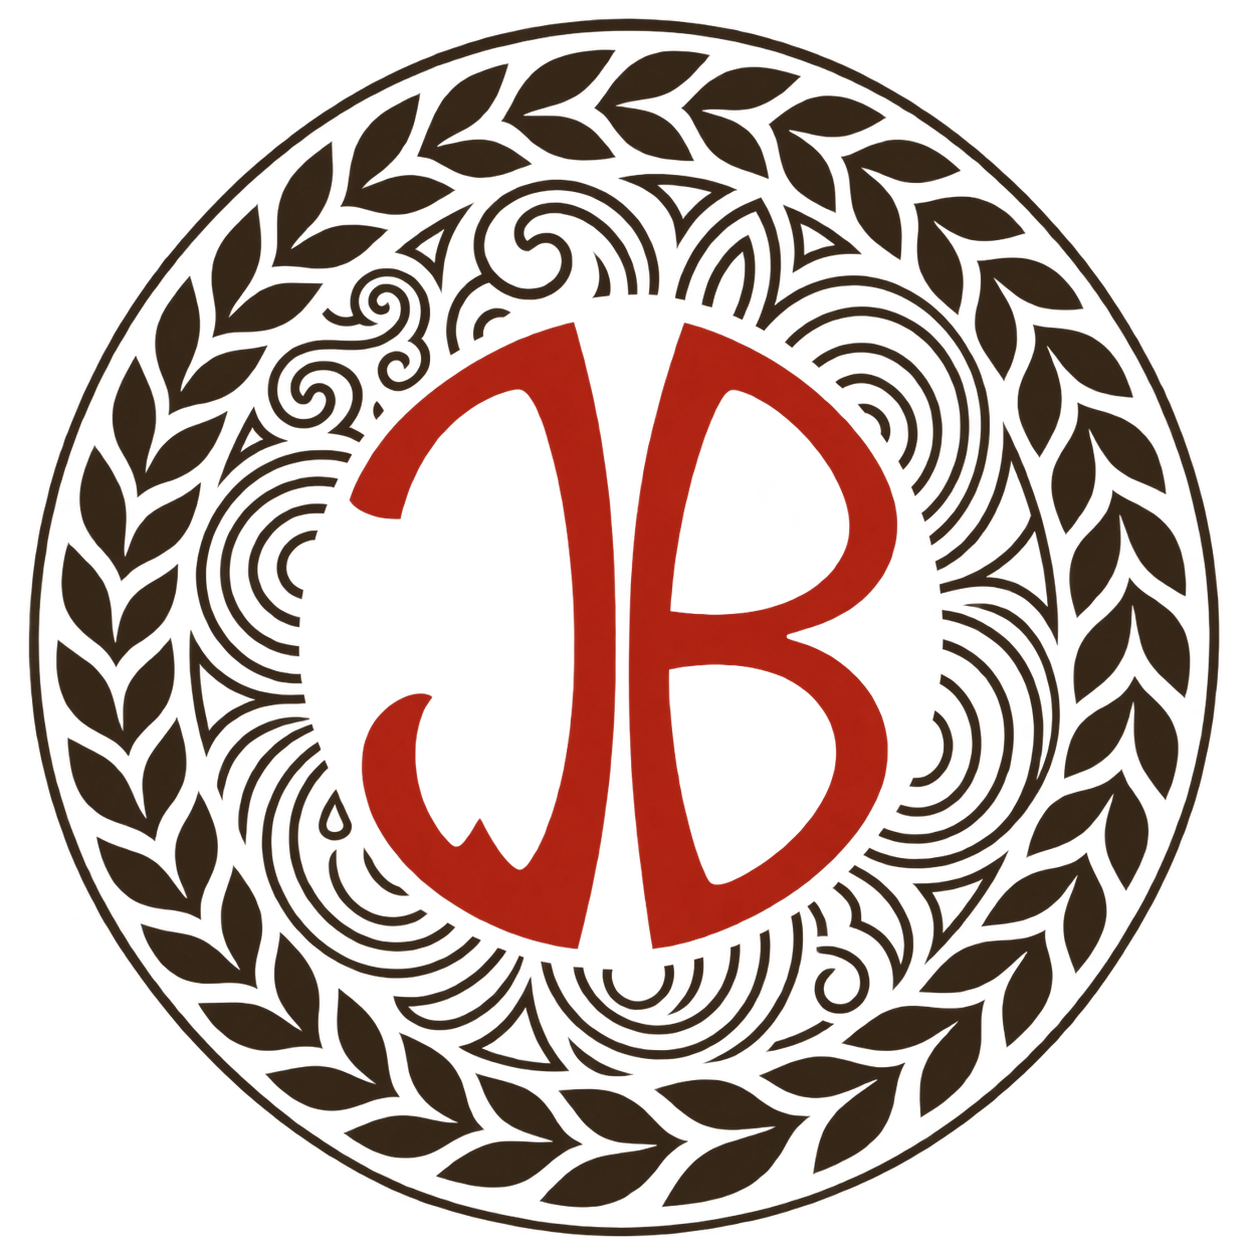
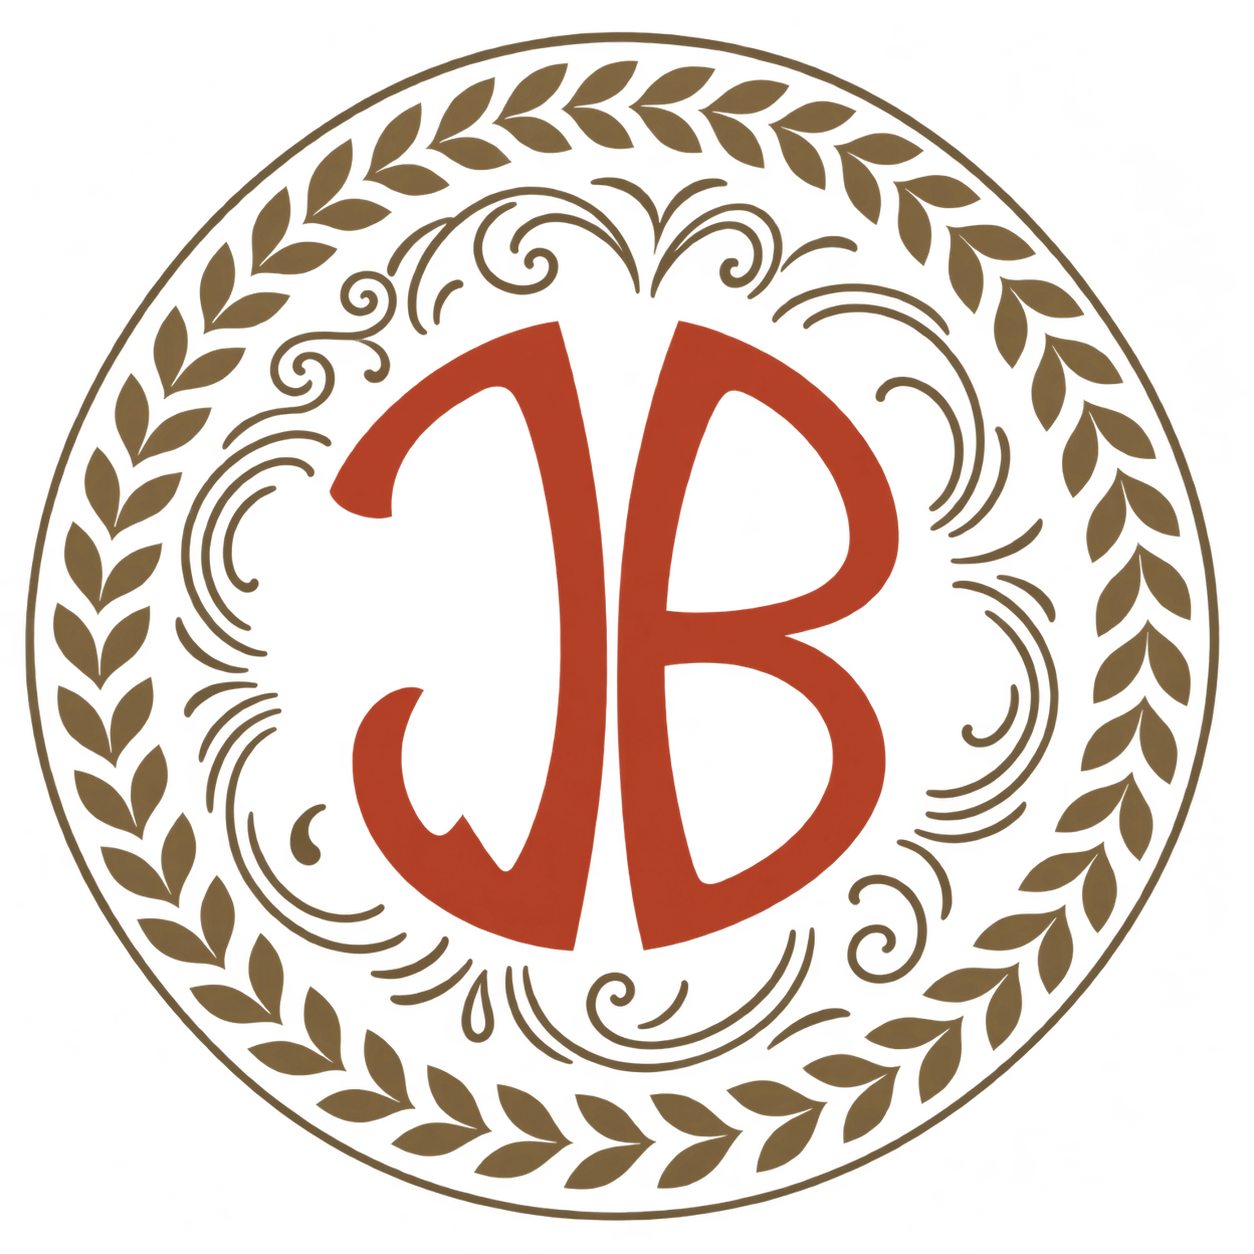
feat: replace the colophon seal with the new JB seal

diff --git a/src/App.jsx b/src/App.jsx
@@ -1,7 +1,7 @@
 import { useEffect, useMemo, useRef, useState } from "react";
 import { version } from "../package.json";
 import "./App.css";
-import sello from "./assets/sello.png";
+import sello from "./assets/sello.webp";
 import {
   CHAPTER_LABELS,
   COLUMN_IDS,
